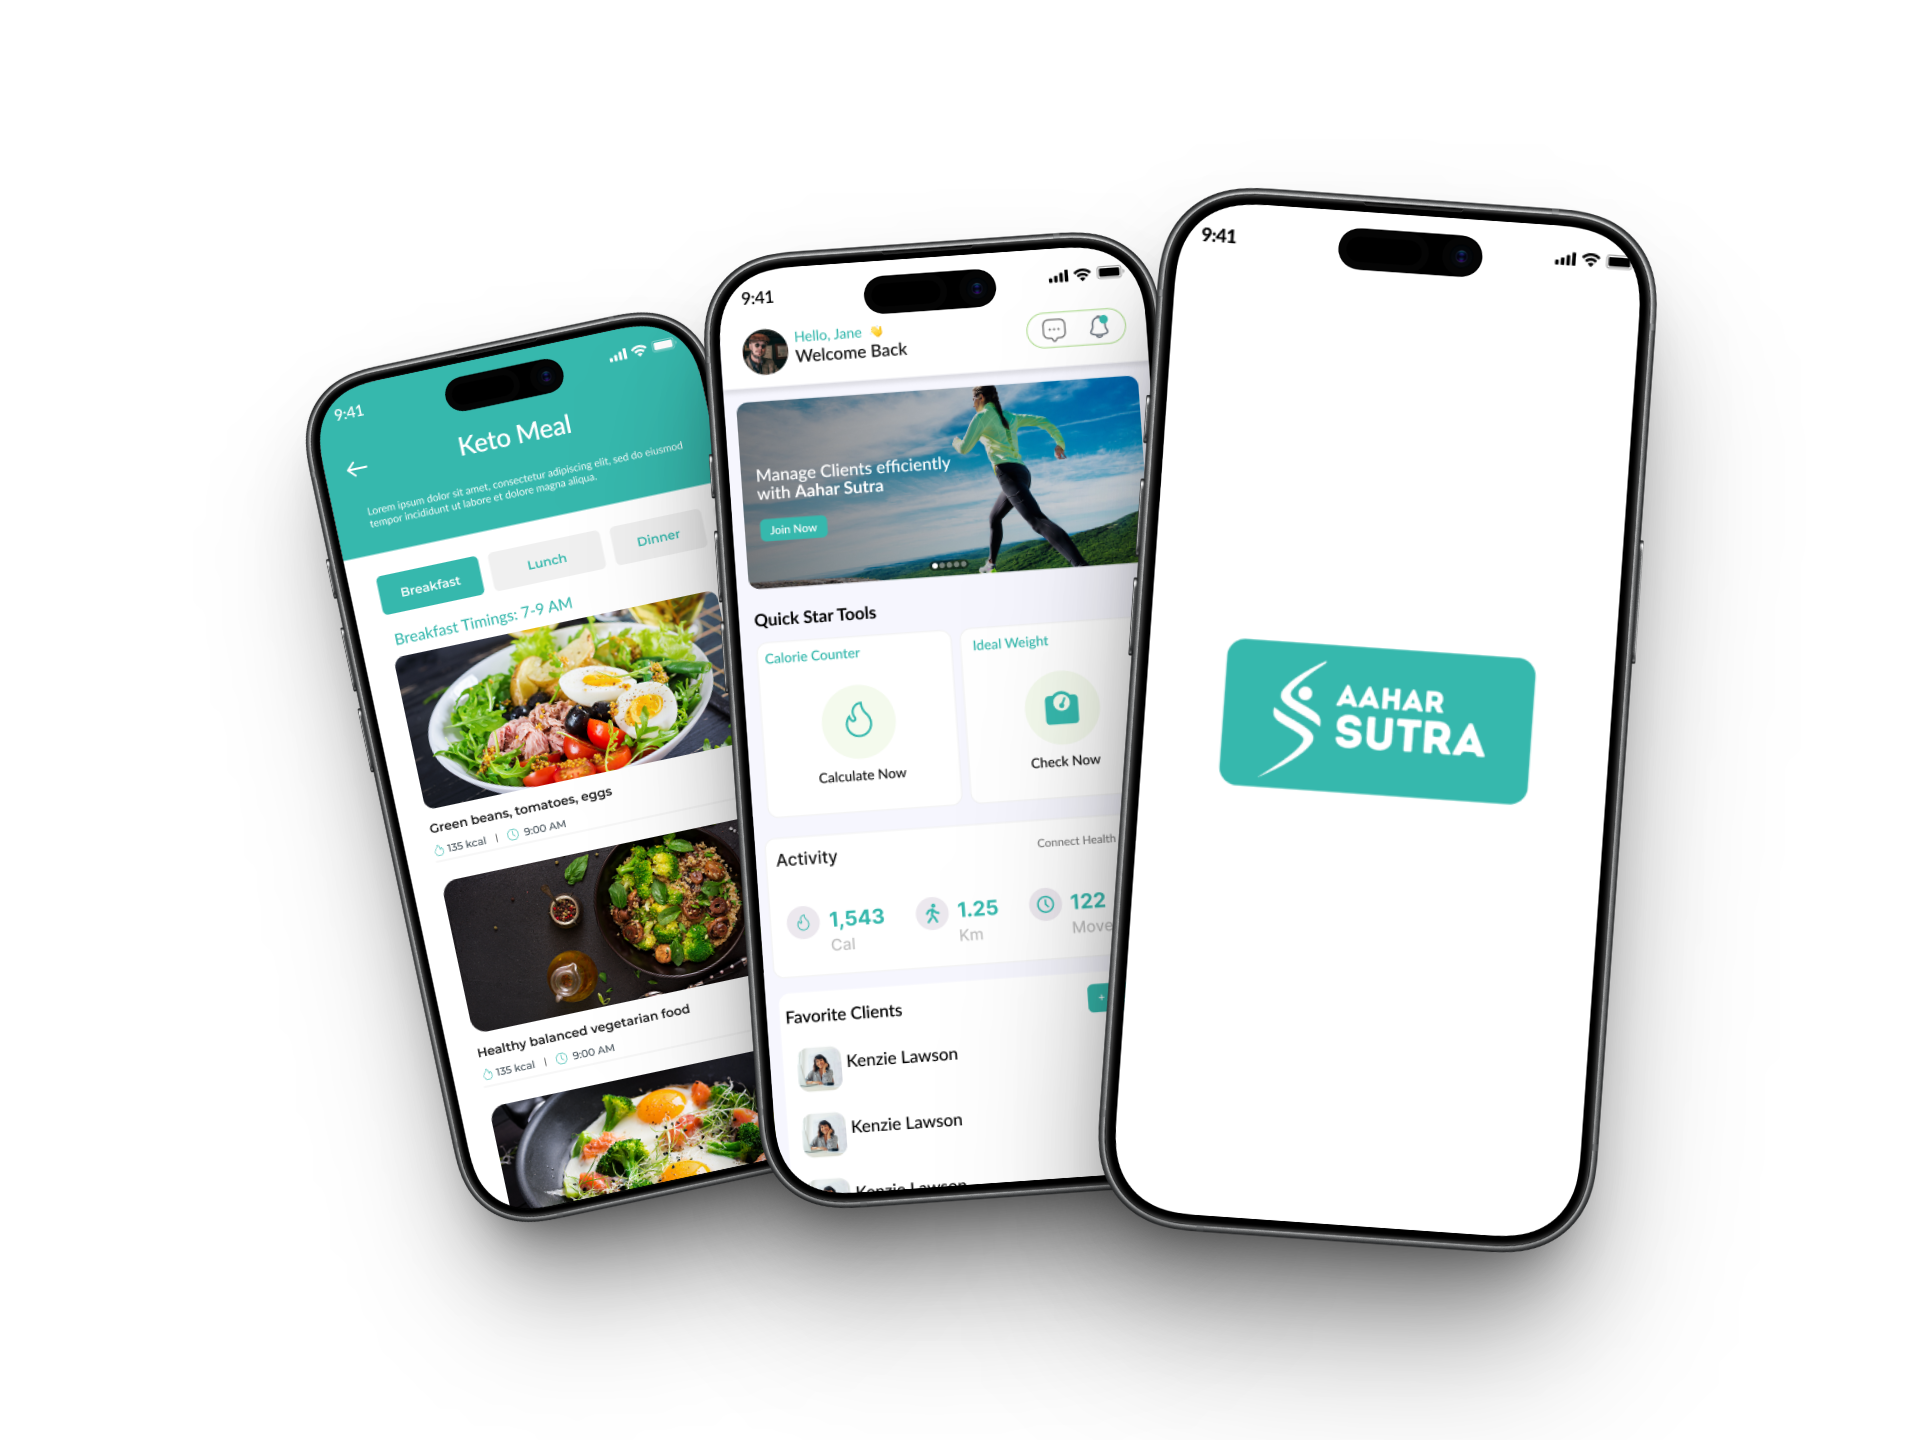
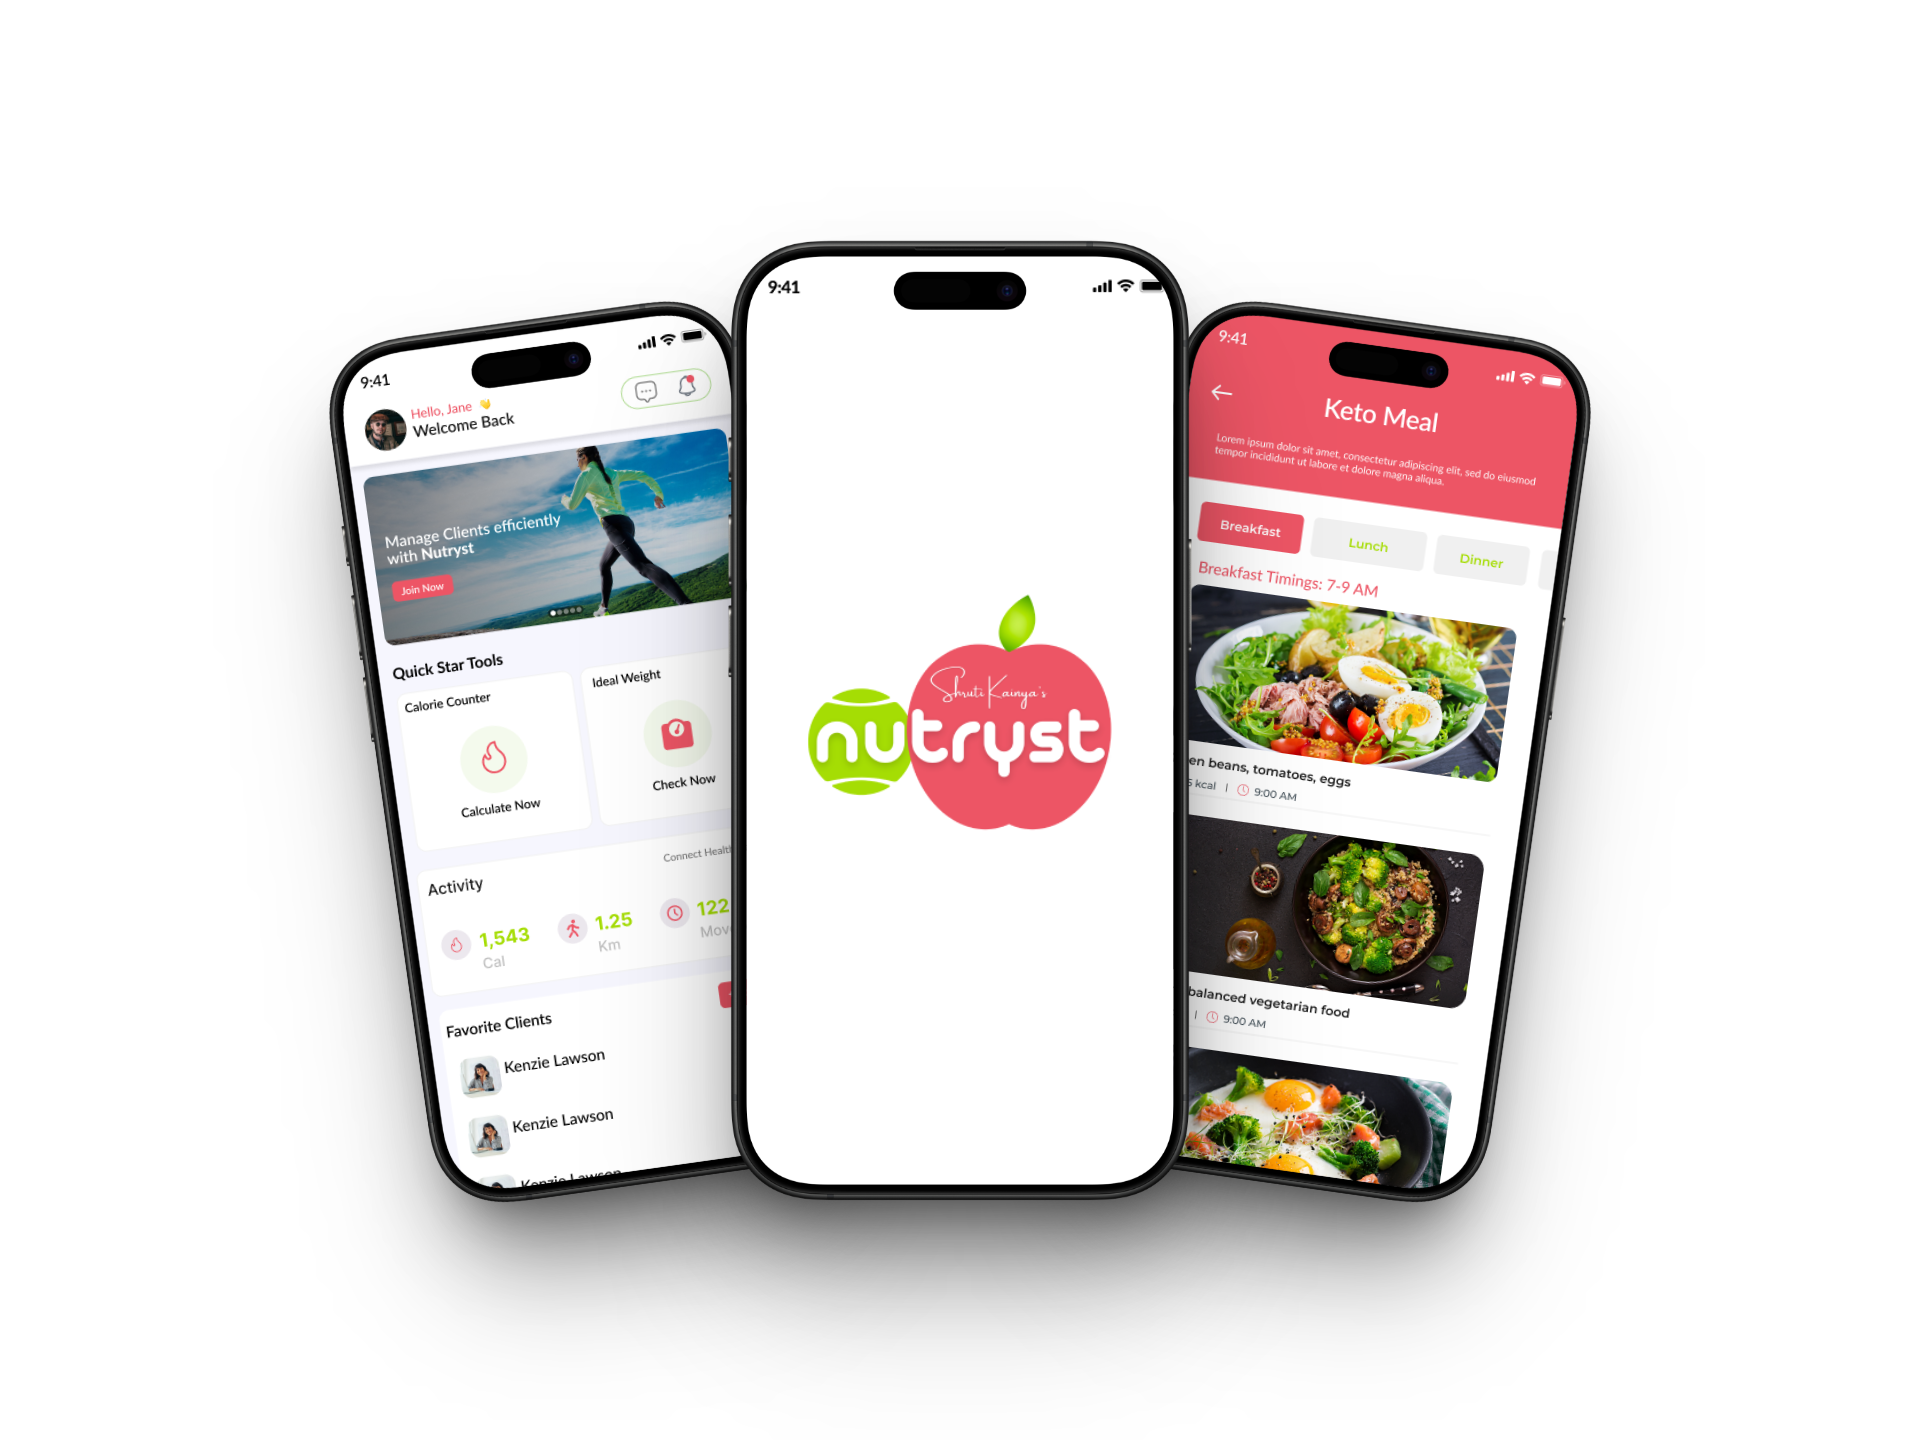
done

diff --git a/src/app/app/[...slug]/page.jsx b/src/app/app/[...slug]/page.jsx
@@ -7,10 +7,10 @@ export default function Page() {
       <div className="xl:min-w-1/2 flex flex-col items-center xl:items-start xl:pl-6 md:mt-[10rem] xl:mt-0 text-center xl:text-left">
         <p className="text-sm md:text-xl lg:text-3xl xl:text-xl mb-5 opacity-70 ">Begin your journey Towards Making People Healthy</p>
         <div className="flex justify-between items-center gap-5 mb-5">
-          <Link href="https://play.google.com/store/apps/details?id=com.wellnessz.aaharsutra" target="_blank">
+          <Link href="https://play.google.com/store/apps/details?id=com.wellnessz.nutryst" target="_blank">
             <Image src="/playstore.png" alt="Google Store" width={150} height={40} className="cursor-pointer w-2xs" />
           </Link>
-          <Link href="https://apps.apple.com/in/app/healthsang/id6754602127" target="_blank">
+          <Link href="https://apps.apple.com/us/app/nutryst/id6756064626" target="_blank">
             <Image src="/appStore.png" alt="App Store" width={150} height={60} className="cursor-pointer w-2xs" />
           </Link>
         </div>

diff --git a/src/app/app/page.jsx b/src/app/app/page.jsx
@@ -7,10 +7,10 @@ export default function Page() {
       <div className="xl:min-w-1/2 flex flex-col items-center xl:items-start xl:pl-6 md:mt-[10rem] xl:mt-0 text-center xl:text-left">
         <p className="text-sm md:text-xl lg:text-3xl xl:text-xl mb-5 opacity-70 ">Begin your journey Towards Making People Healthy</p>
         <div className="flex justify-between items-center gap-5 mb-5">
-          <Link href="https://play.google.com/store/apps/details?id=com.wellnessz.aaharsutra" target="_blank">
+          <Link href="https://play.google.com/store/apps/details?id=com.wellnessz.nutryst" target="_blank">
             <Image src="/playstore.png" alt="Google Store" width={150} height={40} className="cursor-pointer w-2xs" />
           </Link>
-          <Link href="https://apps.apple.com/in/app/healthsang/id6754602127" target="_blank">
+          <Link href="https://apps.apple.com/us/app/nutryst/id6756064626" target="_blank">
             <Image src="/appStore.png" alt="App Store" width={150} height={60} className="cursor-pointer w-2xs" />
           </Link>
         </div>

diff --git a/src/middleware.js b/src/middleware.js
@@ -1,9 +1,9 @@
 import { NextResponse } from 'next/server';
 
 const PLAY_STORE_URL =
-  'https://play.google.com/store/apps/details?id=com.wellnessz.aaharsutra';
+  'https://play.google.com/store/apps/details?id=com.wellnessz.nutryst';
 const APP_STORE_URL =
-  'https://apps.apple.com/in/app/healthsang/id6754602127';
+  'https://apps.apple.com/us/app/nutryst/id6756064626';
 
 const IOS_REGEX = /iPhone|iPad|iPod/i;
 const ANDROID_REGEX = /Android/i;

diff --git a/src/app/layout.js b/src/app/layout.js
@@ -12,8 +12,8 @@ const geistMono = Geist_Mono({
 });
 
 export const metadata = {
-  title: "Aahar Sutra",
-  description: "Generated by create next app",
+  title: "Nutryst ",
+  description: "Nutryst is a platform for health and fitness",
 };
 
 export default function RootLayout({ children }) {
